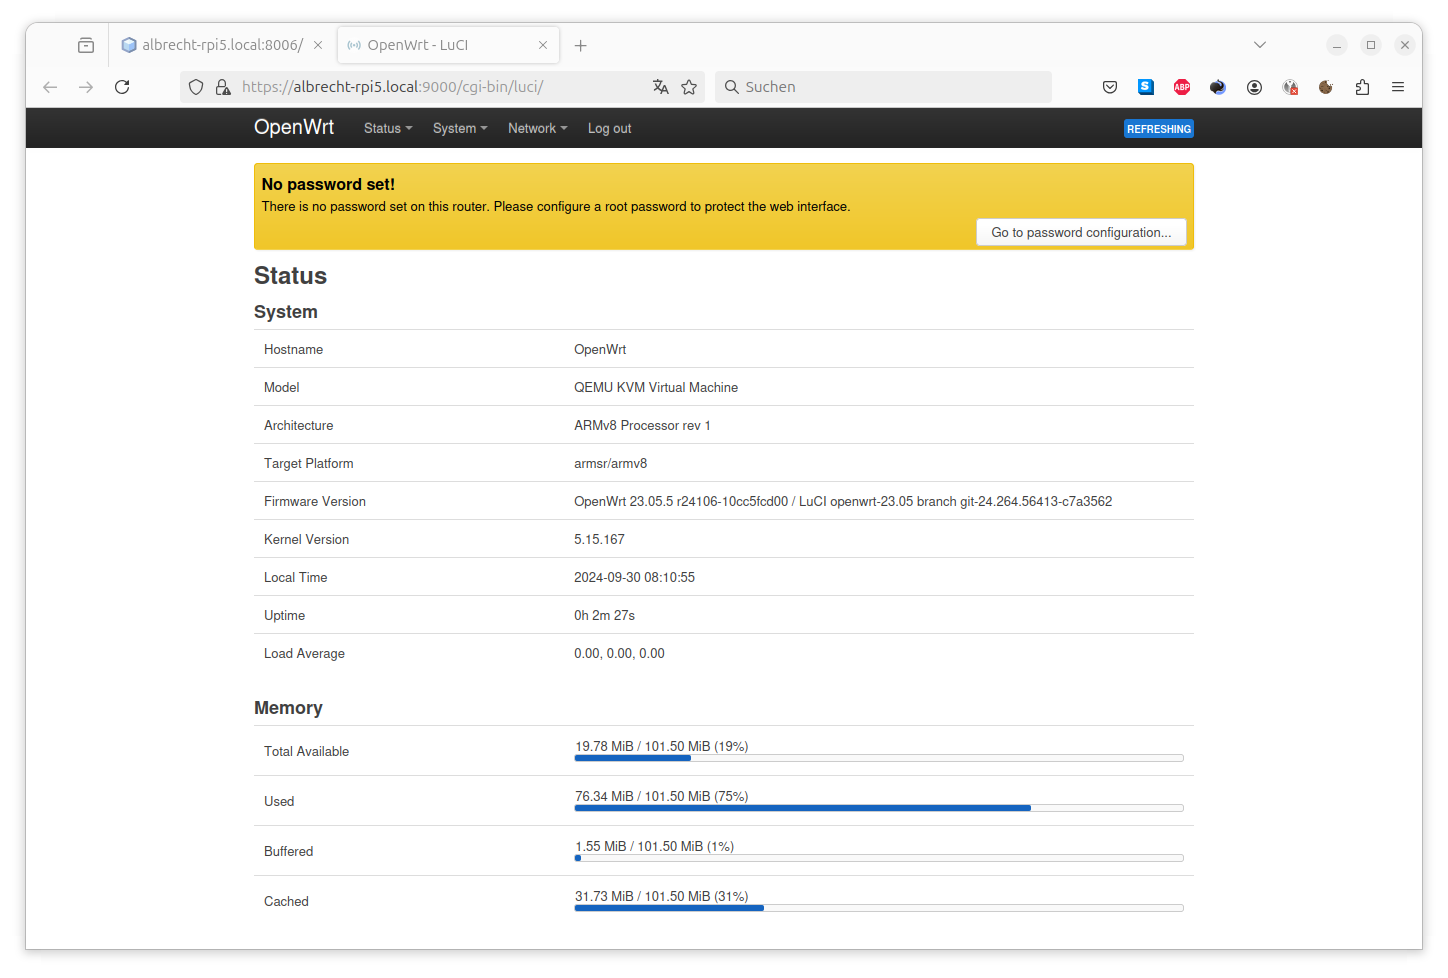
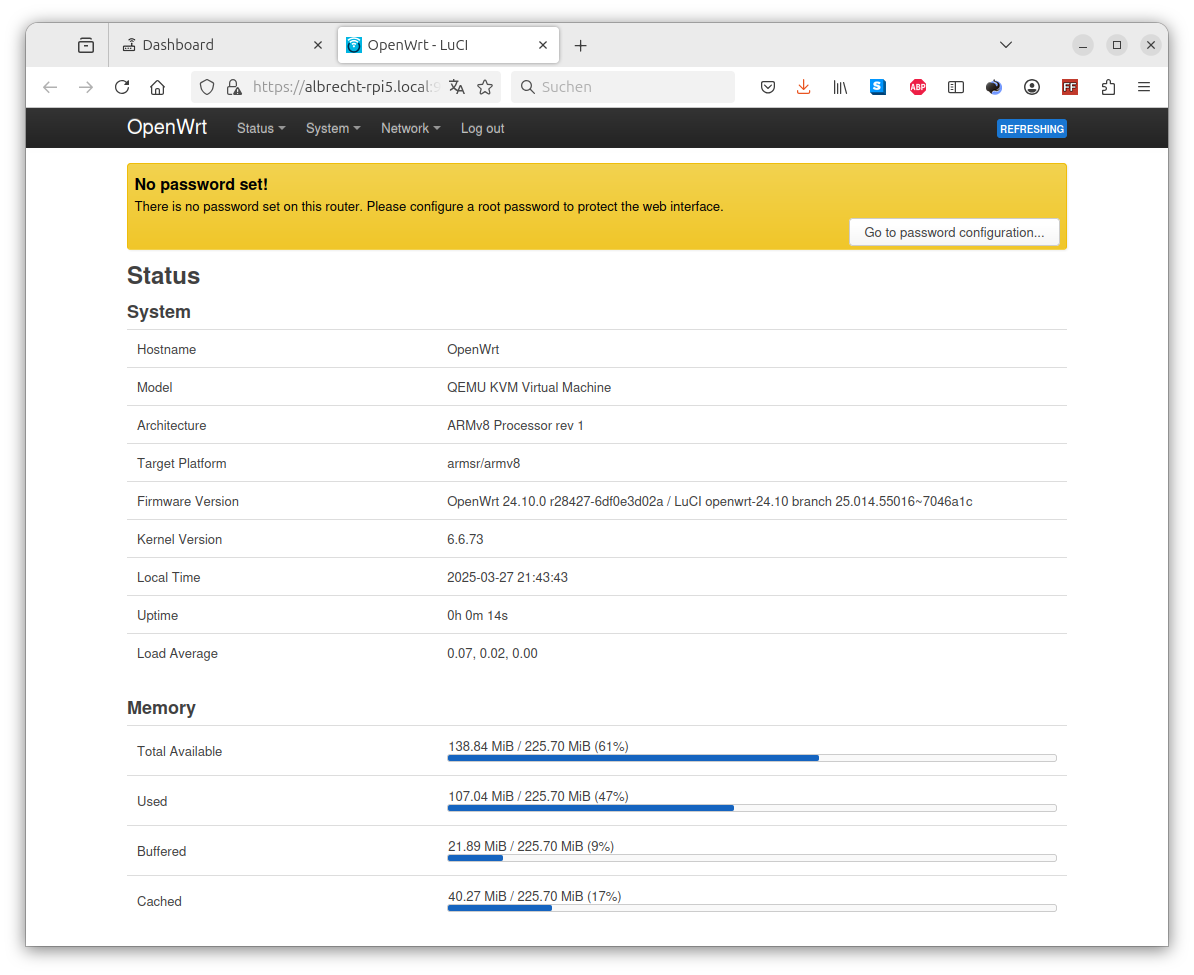
Update screenshots

diff --git a/readme.md b/readme.md
@@ -52,12 +52,15 @@ We really want to help you using this container image.
 * If you run into a bug or if you request a feature open a new issue here: https://github.com/AlbrechtL/openwrt-docker/issues
 * For anything else start a new discussion here: https://github.com/AlbrechtL/openwrt-docker/discussions
 
-## Screenshots
+## Web UI screenshots
 
-VNC console in web browser
-![VNC console in web browser](pictures/qemu_openwrt_vnc_console.png)
+**Dashboard**
+![Dashboard](pictures/qemu_openwrt_dashboard.png)
 
-OpenWrt LUCI web interface
+**VNC console**
+![VNC console](pictures/qemu_openwrt_vnc_console.png)
+
+**OpenWrt LUCI web interface**
 ![OpenWrt LUCI web interface](pictures/qemu_openwrt_luci.png)
 
 ## Platform specific tips and tricks
